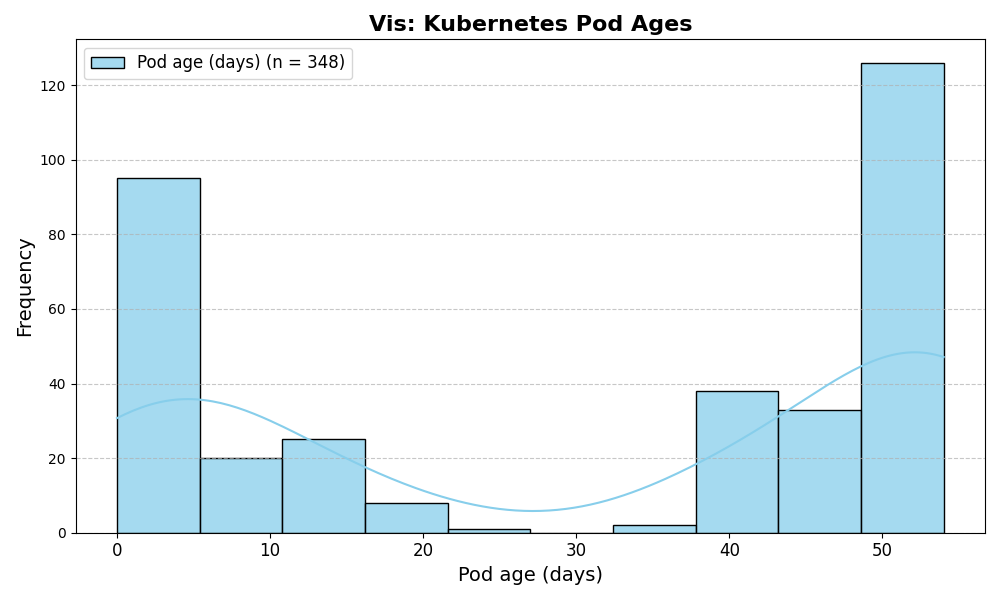
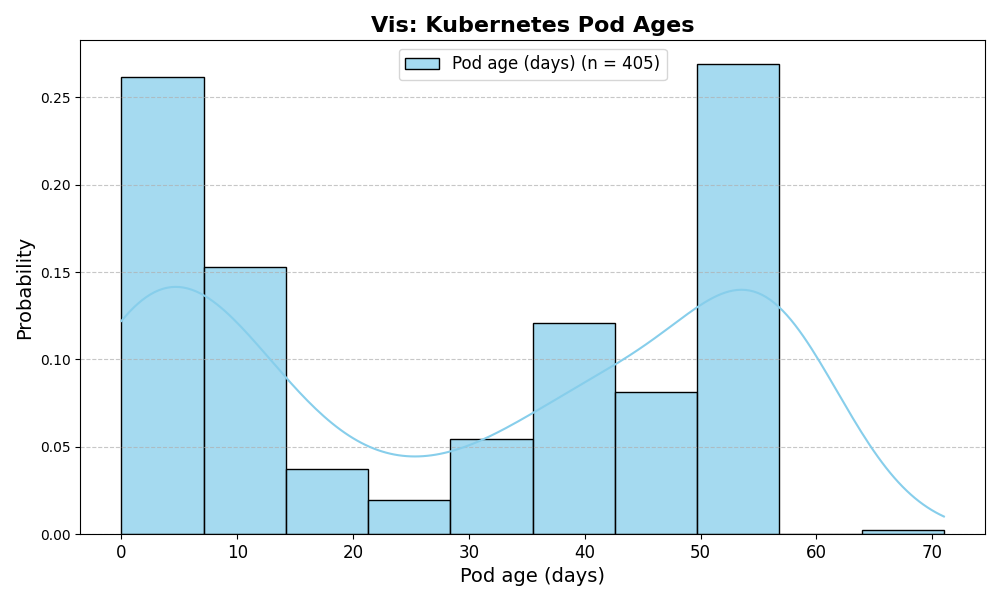
Add hist --stat and --step

Changed region(s): [[0.0, 0.03, 0.961, 0.99]]

diff --git a/vis_cli/cli.py b/vis_cli/cli.py
@@ -59,6 +59,14 @@ class Unit(Enum):
     Day = "days"
 
 
+class Stat(Enum):
+    Count = "count"
+    Freq = "frequency"
+    Prob = "probability"
+    Percent = "percent"
+    Density = "density"
+
+
 @click.group(context_settings=dict(help_option_names=["-h", "--help"], max_content_width=120))
 def cli():
     """A fuzzy tabular data visualization tool."""
@@ -72,6 +80,7 @@ def cli():
 @click.option("--justsave", is_flag=True, help="Save the plot to file without displaying it.")
 @click.option("--output", "-o", help="Output filename for the plot. Implies --save.")
 @click.option("--xlab", default="Value", show_default=True, help="Label for the x-axis.")
+@click.option("--ylab", default=None, help="Label for the y-axis.")
 @click.option("--title", help="Title for the plot.")
 @click.option("--col", type=int, default=0, show_default=True, help="Column index to plot.")
 @click.option("--static", is_flag=True, help="Use cols to index into columns instead of list of floats.")
@@ -81,6 +90,8 @@ def cli():
 @click.option("--barcolor", type=str, default="skyblue", help="Color for the histogram bars.")
 @click.option("--baredge", type=str, default="black", help="Edge color for the histogram bars.")
 @click.option("--baralpha", type=float, default=0.75, help="Alpha value for the histogram bars.")
+@click.option("--stat", type=Choice(Stat, case_sensitive=False), default=Stat.Count, show_default=True, help="Statistical measure to display in the histogram.")
+@click.option("--step", type=int, default=None, help="Step size for x-axis ticks.")
 @click.option("--kde", is_flag=True, help="Add a kernel density estimate (KDE) to the histogram.")
 @click.option("--unit", type=Choice(Unit, case_sensitive=False), default=None, help="Coerce output to a specific unit. Implies --static.")
 @click.option("--strict", is_flag=True, help="Fail on parse errors instead of skipping them.")
@@ -93,6 +104,7 @@ def hist_cmd(
     justsave: bool,
     output: str,
     xlab: str,
+    ylab: Optional[str],
     title: str,
     col: int,
     static: bool,
@@ -102,6 +114,8 @@ def hist_cmd(
     barcolor: str,
     baredge: str,
     baralpha: float,
+    stat: Stat,
+    step: Optional[int],
     kde: bool,
     unit: Optional[Unit],
     strict: bool,
@@ -130,14 +144,29 @@ def hist_cmd(
     if xmin is not None or xmax is not None:
         binrange = (xmin or x.min(), xmax or x.max())
         plt.xlim(*binrange)
-    sns.histplot(x, bins=n_bins or "auto", binrange=binrange, color=barcolor, edgecolor=baredge, alpha=baralpha, kde=kde, label=f"{xlab} (n = {len(x)})")
+    sns.histplot(
+        x,
+        bins=n_bins or "auto",
+        binrange=binrange,
+        color=barcolor,
+        edgecolor=baredge,
+        alpha=baralpha,
+        stat=stat.value,
+        kde=kde,
+        label=f"{xlab} (n = {len(x)})",
+    )
     plt.title(title or "Histogram of Input Data", fontsize=16, fontweight="bold")
     plt.legend(fontsize=12)
     plt.xlabel(xlab, fontsize=14)
-    plt.ylabel("Frequency", fontsize=14)
+    plt.ylabel(ylab if ylab is not None else stat.value.title(), fontsize=14)
     plt.grid(axis="y", linestyle="--", alpha=0.7)
     plt.xticks(fontsize=12)
+    plt.yticks(fontsize=12)
     plt.tight_layout()
+
+    if step:
+        plt_xmin, plt_xmax = round_down(xmin or x.min(), step), round_up(xmax or x.max(), 5)
+        plt.xticks(np.arange(plt_xmin, plt_xmax + 1, step=step), fontsize=12)
 
     do_save = any((save, justsave, output))
     do_show = not justsave
@@ -145,6 +174,16 @@ def hist_cmd(
         save_plot(output or title_to_filename(title, "hist"), force)
     if do_show:
         plt.show()
+
+
+def round_up(k: float, multiple: int) -> int:
+    """Round up k to the nearest multiple of multiple."""
+    return np.ceil(k / multiple) * multiple
+
+
+def round_down(k: float, multiple: int) -> int:
+    """Round down k to the nearest multiple of multiple."""
+    return np.floor(k / multiple) * multiple
 
 
 @cli.command(name="line")

diff --git a/README.md b/README.md
@@ -36,7 +36,7 @@ seq 0 0.1 10 | awk '{print $1, sin($1)}' | vis line --xlab "Time" --ylab "sin(t)
 
 ## More examples
 
-### Histogram: Kubernetes Pod Ages
+### Histogram: Kubernetes pod ages
 
 ```shell
 kubectl get pods --all-namespaces | vis hist --col 5 --sep '   ' --unit day --kde --xlab 'Pod age (days)'
